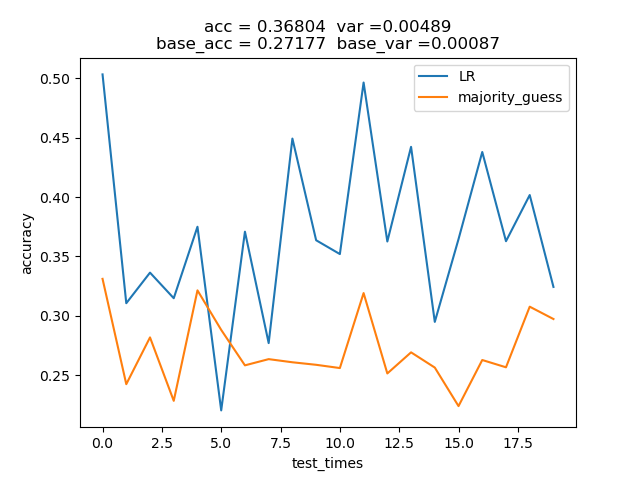
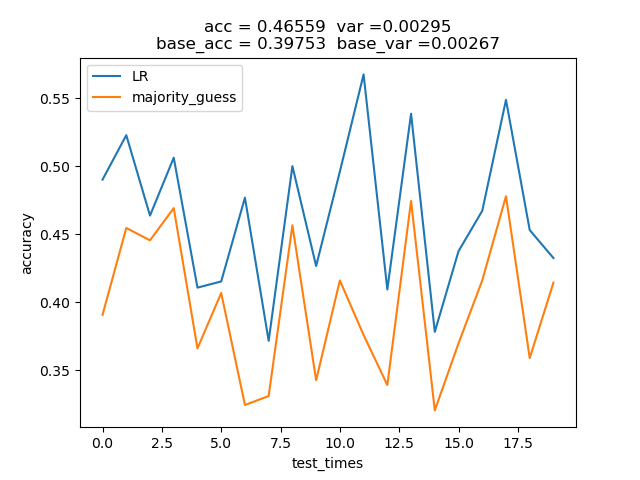
add other codes

diff --git a/size_based_prediction_need_num.py b/size_based_prediction_need_num.py
@@ -36,7 +36,10 @@ warnings.filterwarnings("ignore")
 cluster_label =  pkl.load(open('utils/cluster_information.pkl','rb'))
 def read_dataset_and_save_basic_value(target_value, train_alg, use_file):
     df = pd.read_csv('../arrange/'+use_file[0])
+    keep_keys = [15,25,35,45,55,65,75]
     drop_keys = []
+    pre_save = {}
+    pre_save_all = {}
     for i in range(90):
         drop_keys.append('small2_'+str(i))
         drop_keys.append('small3_'+str(i))
@@ -46,24 +49,74 @@ def read_dataset_and_save_basic_value(target_value, train_alg, use_file):
     if('dataset_data_noised.csv' in use_file):
         df2 = pd.read_csv('../arrange/dataset_data_noised.csv')
         df = df.append(df2)
-    df_pre = df
+    df['size'] = 100
+    drop_keys = []
+    for i in range(90):
+        if(i not in keep_keys):
+            drop_keys.append('small_'+str(i))
+            drop_keys.append('small_var_'+str(i))
+    df.drop(drop_keys,axis = 1)
+    print(df.shape)
+    df = df.loc[df['noised']!='no']
     target_keys = []
     target_keys_2 = []
     target_key_all = []
-    for i in range(0,pilot_length - 10):
+    for i in keep_keys:
         target_keys.append('small_'+str(i))
         target_keys_2.append('small_var_'+str(i))
     for i in range(2000):
         target_key_all.append('all_'+str(i))
-    pre_save = {}
-    pre_save_all = {}
-    for index, row in df_pre.iterrows():
+    for index, row in df.iterrows():
         try:
-            pre_save[row['name']+str(row['dataset_num'])+row['noised']+row['Evaluation Method']] = row[target_keys].tolist()
-            pre_save[row['name']+str(row['dataset_num'])+row['noised']+row['Evaluation Method']+'_var'] = row[target_keys_2].tolist()
-            pre_save_all[row['name']+str(row['dataset_num'])+row['noised']+row['Evaluation Method']] = row[target_key_all].tolist()
+            pre_save[row['name']+str(row['dataset_num'])+row['noised']+row['Evaluation Method']+'100'] = row[target_keys].tolist()
+            pre_save[row['name']+str(row['dataset_num'])+row['noised']+row['Evaluation Method']+'_var'+'100'] = row[target_keys_2].tolist()
+            pre_save_all[row['name']+str(row['dataset_num'])+row['noised']+row['Evaluation Method']+'100'] = row[target_key_all].tolist()
         except:
             ii = 1
+
+    print(df.shape)
+    df3 = pd.read_csv('../arrange/dataset_data_50.csv')
+    keep_keys = [5,10,15,20,25,30,35]
+    drop_keys = []
+    for i in range(40):
+        if(i not in keep_keys):
+            drop_keys.append('small_'+str(i))
+            drop_keys.append('small_var_'+str(i))
+    df3.drop(drop_keys,axis = 1)
+    df3['size'] = 50
+    print(df3.shape)
+    target_keys = []
+    target_keys_2 = []
+    target_key_all = []
+    for i in keep_keys:
+        target_keys.append('small_'+str(i))
+        target_keys_2.append('small_var_'+str(i))
+    for i in range(2000):
+        target_key_all.append('all_'+str(i))
+    for index, row in df3.iterrows():
+        try:
+            pre_save[row['name']+str(row['dataset_num'])+row['noised']+row['Evaluation Method']+'50'] = row[target_keys].tolist()
+            pre_save[row['name']+str(row['dataset_num'])+row['noised']+row['Evaluation Method']+'_var'+'50'] = row[target_keys_2].tolist()
+            pre_save_all[row['name']+str(row['dataset_num'])+row['noised']+row['Evaluation Method']+'50'] = row[target_key_all].tolist()
+        except:
+            ii = 1
+    df = df.append(df3)
+
+    #df3 = pd.read_csv('../arrange/dataset_data_200.csv')
+    #keep_keys = [20,50,80,110,140,170,190]
+    #drop_keys = []
+    #for i in range(190):
+    #    if(i not in keep_keys):
+    #        drop_keys.append('small_'+str(i))
+    #        drop_keys.append('small_var_'+str(i))
+    #df3.drop(drop_keys,axis = 1)
+    #df3['size'] = 200
+    #print(df3.shape)
+    #df = df.append(df3)
+
+    df_pre = df
+    
+    
     df = df.loc[df['Evaluation Method'].isin([target_value])]
     df = df.loc[df['dataset_type'].isin(['clf','multi_clf'])]
     df = df.loc[df['Learning Algorithm'].isin([train_alg])]
@@ -108,7 +161,10 @@ def get_meta_data(X,y, task_type,n_cnt, c_cnt, meta_value):
         coe_v.append(1.0*max(arr_appear.values())/100.0)
         ret.extend(coev)
     return ret
-def get_train_test(args,df, pre_save, pre_save_all, _r, use_value, meta_value, use_num,use_auto_ml, auto_ml_result = None, stop_ratio = 0.95):
+
+def deal_str(x):
+    return str(round(x,5))
+def get_train_test(df, pre_save, pre_save_all, _r, use_value, meta_value, class_standard,stop_ratio = 0.95):
     chosen_label = np.array(range(100))
     np.random.seed(_r)
     np.random.shuffle(chosen_label)
@@ -117,16 +173,13 @@ def get_train_test(args,df, pre_save, pre_save_all, _r, use_value, meta_value, u
     X_test = []
     y_test = []
     print(df.shape)
-    print(use_value)
-    tmp1 = []
-    tmp2 = []
     for index,row in df.iterrows():
+        v = [row['size']]
         v = []
         for value_name in use_value:
-            for num in use_num:
-                v.append(pre_save[row['name']+str(row['dataset_num'])+row['noised']+value_name][num])
-        #print(len(v))
-        #print(v)
+            v.extend(pre_save[row['name']+str(row['dataset_num'])+row['noised']+value_name+str(row['size'])])
+        if(index == 0):
+            print(len(v))
         for i in range(len(v)):
             if(math.isnan(v[i])):
                 v[i] = 0
@@ -156,79 +209,78 @@ def get_train_test(args,df, pre_save, pre_save_all, _r, use_value, meta_value, u
                 y_median = np.median(np.array(y))
                 y = (y > y_median).astype(int)
             v.extend(get_meta_data(X,y,task_type,row['numerical_cnt'],row['categorical_cnt'], meta_value))
-        vy = row['all_1990']
-        if(use_auto_ml):
-            try:
-                vy = auto_ml_result[str(row['name'])+str(row['dataset_num'])+row['noised']][args.target_value]
-                tmp1.append(row['all_1990'])
-                tmp2.append(vy)
-                if(chosen_label[cluster_label[row['name']]]<80):
-                    X_train.append(v)
-                    y_train.append(vy)
-                else:
-                    X_test.append(v)
-                    y_test.append(vy)
-            except:
-                 ii = 1
+        vy = 2000
+        tt = row['all_1990']
+        for i in range(2000):
+            ss = 'all_'+str(i)
+            if(pre_save_all[row['name']+str(row['dataset_num'])+row['noised']+'f1_score'+str(row['size'])][i] > stop_ratio*pre_save_all[row['name']+str(row['dataset_num'])+row['noised']+'f1_score'+str(row['size'])][-10]  and 
+                pre_save_all[row['name']+str(row['dataset_num'])+row['noised']+'accuracy'+str(row['size'])][i] > stop_ratio*pre_save_all[row['name']+str(row['dataset_num'])+row['noised']+'accuracy'+str(row['size'])][-10] 
+                and pre_save_all[row['name']+str(row['dataset_num'])+row['noised']+'recall'+str(row['size'])][i] > stop_ratio*pre_save_all[row['name']+str(row['dataset_num'])+row['noised']+'recall'+str(row['size'])][-10]
+                and pre_save_all[row['name']+str(row['dataset_num'])+row['noised']+'precision'+str(row['size'])][i] > stop_ratio*pre_save_all[row['name']+str(row['dataset_num'])+row['noised']+'precision'+str(row['size'])][-10] ):
+                vy = i
+                break
+        vy_class = len(class_standard)
+        for i in range(len(class_standard)):
+            if(vy <= class_standard[i]):
+                vy_class = i
+                break
+        if(chosen_label[cluster_label[row['name']]]<80):
+            X_train.append(v)
+            y_train.append(vy_class)
         else:
-            if(chosen_label[cluster_label[row['name']]]<80):
-                X_train.append(v)
-                y_train.append(vy)
-            else:
-                X_test.append(v)
-                y_test.append(vy)
-            
-    print(r2_score(tmp1,tmp2))
-    print(len(y_train), len(y_test))
-    return np.array(X_train),np.array(X_test),np.array(y_train),np.array(y_test)
-
-def deal_str(x):
-    return str(round(x,5))
+            X_test.append(v)
+            y_test.append(vy_class)
+    return X_train,X_test,y_train,y_test
 
 def main(args):
     pilot_length = args.pilot_length
-    if(args.use_auto_ml):
-        auto_ml_result = pkl.load(open('auto_ml_result_all.pkl','rb'))
-    print(len(auto_ml_result.keys()))
+
     df, pre_save, pre_save_all = read_dataset_and_save_basic_value(args.target_value, args.train_alg, args.use_file)
-    a = []
-    a_mse = []
-    result_coef = []
-    result_int = []
+    plt_1 = []
+    plt_baseline = []
+    y_pred2 = []
+    y_pred3 = []
+    y_pred4 = []
     for _ in range(args.split_times):
         print('######run_time:'+str(_)+'############' )
-        X_train, X_test, y_train, y_test = get_train_test(args, df,pre_save, pre_save_all,  _, args.use_value, args.meta_value, args.use_num,args.use_auto_ml,auto_ml_result)
-        print(X_train.shape)
-        print(y_train.shape)
+        X_train, X_test, y_train, y_test = get_train_test(df,pre_save, pre_save_all,  _, args.use_value, args.meta_value, args.class_standard)
         if(args.method == 'LR'):
-            LR = LinearRegression()
+            LR = LogisticRegression(multi_class='multinomial', solver='newton-cg')
         elif(args.method == '2-layer NN'):
-            LR = MLPRegressor(hidden_layer_sizes=(50,50))
+            LR = MLPClassifier(hidden_layer_sizes=(50,50))
         elif(args.method == 'RF'):
-            LR = RandomForestRegressor()
+            LR = RandomForestClassifier()
         elif(args.method == '3-layer NN'):
-            LR = MLPRegressor(hidden_layer_sizes=(50,50,20))
+            LR = MLPClassifier(hidden_layer_sizes=(50,50,20))
         LR.fit(X_train,y_train)
         predict_results=LR.predict(X_test)
-        a.append(r2_score(y_test,predict_results))
-       # print(X_test)
-       # print(y_test)
-        a_mse.append(math.sqrt(mean_squared_error(y_test,predict_results)))
-        result_coef.append(LR.coef_)
-        result_int.append(LR.intercept_)
-    print(np.array(a).mean(),np.array(a).var())
-    print(np.array(a_mse).mean(),np.array(a_mse).var())
-    print(np.array(result_coef).mean(axis=0))
-    print(np.array(result_int).mean())
-    plt.plot(a,label =  'r2')
-    plt.plot(a_mse,label = 'rmse')
+        plt_1.append(accuracy_score(y_test,predict_results))
+        arr_appear = dict((a, y_test.count(a)) for a in y_test)
+        print(arr_appear)
+        plt_baseline.append(max(arr_appear.values())/len(y_test))
+        print(plt_1[-1],plt_baseline[-1])
+    print(np.array(plt_1).mean(),np.array(plt_1).var())
+    print(np.array(plt_baseline).mean(),np.array(plt_baseline).var())
+    plt.plot(plt_1,label =  args.method)
+    plt.plot(plt_baseline,label = 'majority_guess')
     plt.xlabel('test_times')
+    plt.ylabel('accuracy')
     plt.legend()
-    plt.title('r2 = '+deal_str(np.array(a).mean())+ '  var =' +deal_str(np.array(a).var()) + '\n rmse = '+deal_str(np.array(a_mse).mean())+ '  var =' +deal_str(np.array(a_mse).var()))
-    Save_dir = 'result_fig/final_result_prediction/'+args.target_value+'/'
+    plt.title('acc = '+deal_str(np.array(plt_1).mean())+ '  var =' +deal_str(np.array(plt_1).var()) + '\nbase_acc = '+deal_str(np.array(plt_baseline).mean())+ '  base_var =' +deal_str(np.array(plt_baseline).var()))
+    Save_dir = 'result_fig/need_num_prediction/'+args.target_value+'/'
     plt.savefig(Save_dir + args.method+ '_'.join(args.use_value)+'_'.join(args.meta_value))
     
     plt.close()
+    if(args.print_coef == True) :
+        print(LR.coef_[0].sum(),len(LR.coef_[0]))
+        pr = [x for x in range(0,pilot_length-10,5)]
+
+        for i in range(len(args.class_standard)):
+            plt.plot(pr,LR.coef_[i][pr],label=str(i)+'-class')
+        plt.ylabel('coef')
+        plt.xlabel('f1_score with x data points')
+        plt.legend()
+        plt.savefig(Save_dir + 'coef_'+arg.method+ '_'.join(args.use_value)+'_'.join(args.meta_value))
 
 if __name__ == "__main__":
     pilot_length = 100

diff --git a/utils/parse_cmd.py b/utils/parse_cmd.py
@@ -13,6 +13,7 @@ def parse_cmd():
     parser.add_argument("--pilot_length", type=int, default = 100)
     parser.add_argument("--class_standard", type=int, default=[128,250,440,800])
     parser.add_argument("--print_coef", type=bool, default=False)
+    parser.add_argument("--use_auto_ml", type=bool, default=False)
     parser.add_argument("--use_file", type=str, default=['dataset_data_100.csv', 'dataset_data_noised.csv'], nargs='+')
     args = parser.parse_args()
     return args
